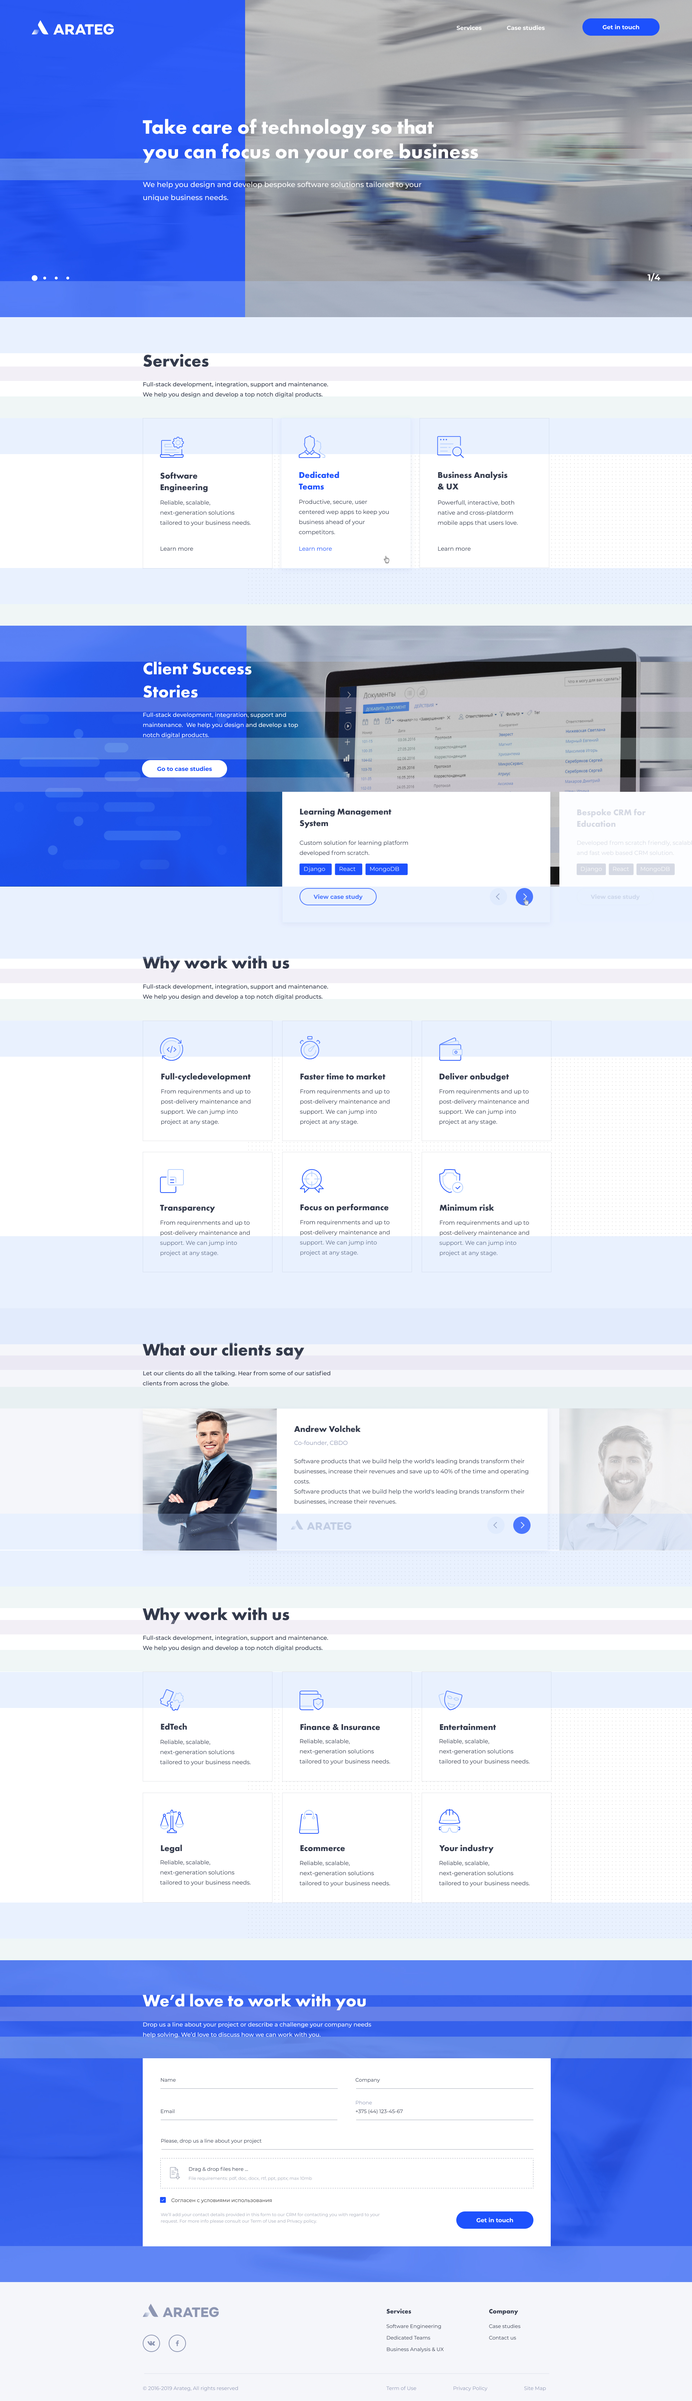
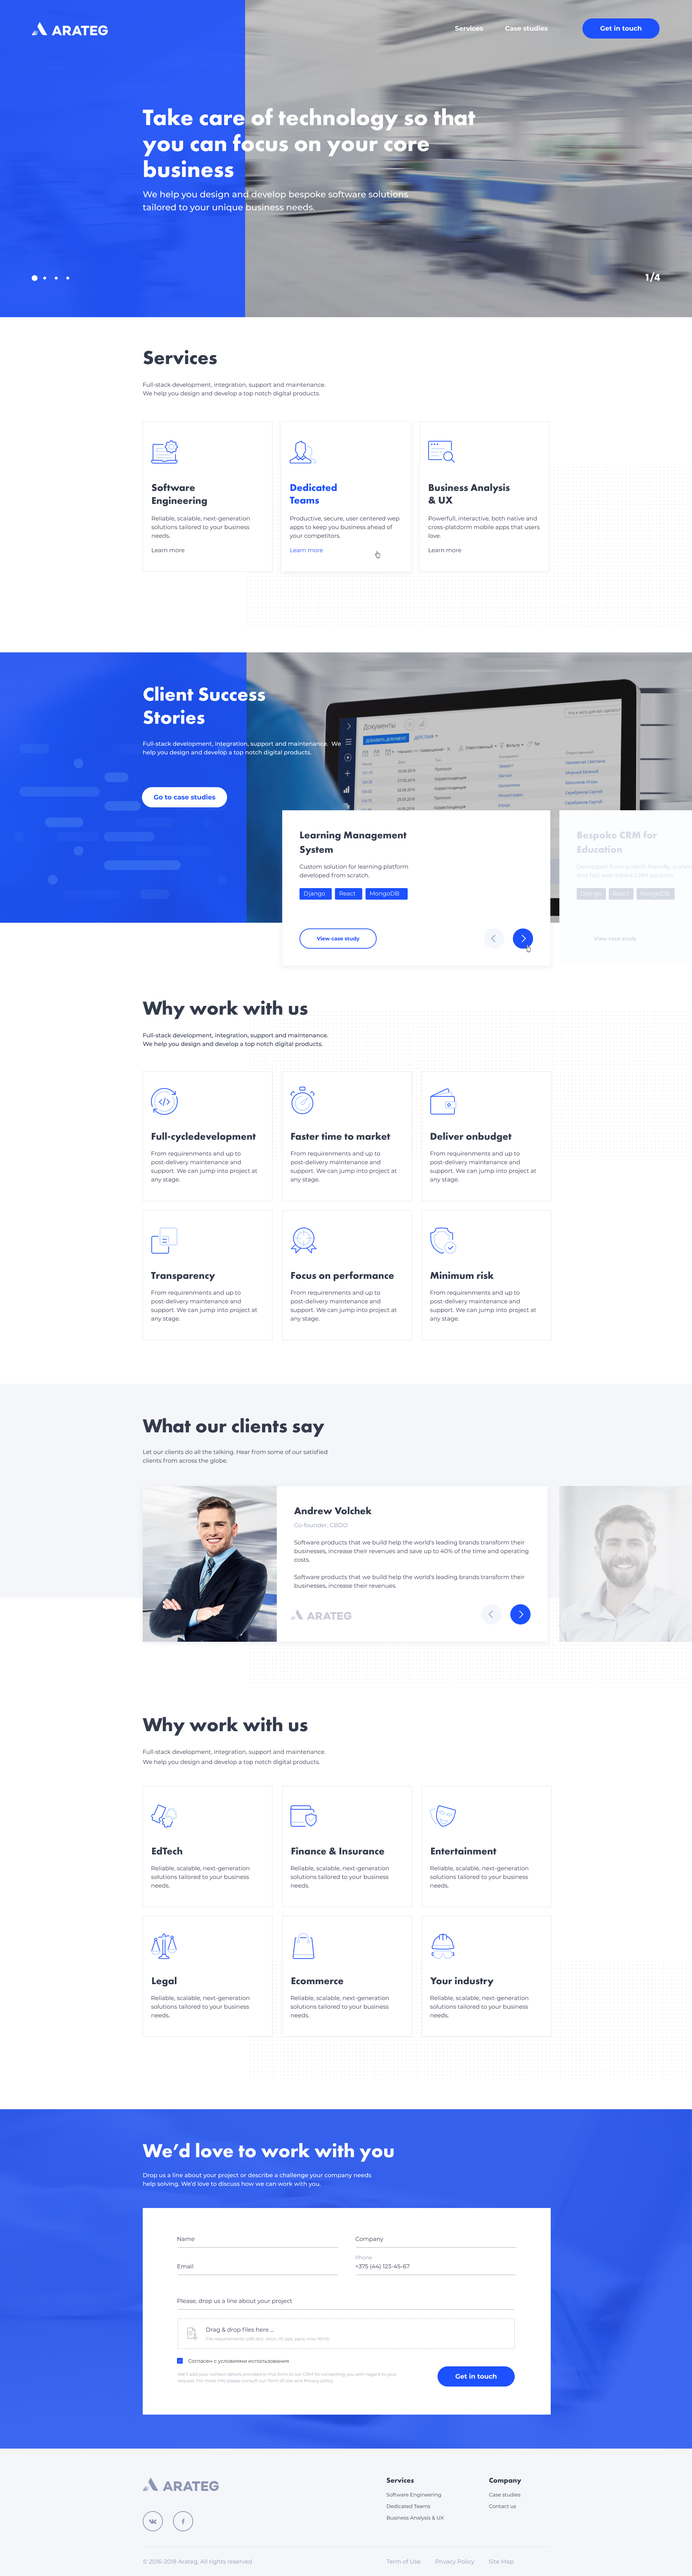
xxl fix

diff --git a/src/assets/styles/sections/_clientsay.scss b/src/assets/styles/sections/_clientsay.scss
@@ -1,5 +1,8 @@
 .clientsay {
   padding: 0;
+  @media #{$xl} {
+    padding-bottom: 50px;
+  }
   .section--pattern--bottom-right {
     height: 695px;
     bottom: 96px;
@@ -12,6 +15,9 @@
     padding: 45px 0 210px;
     @media #{$md} {
       padding: 90px 0 170px;
+    }
+    @media #{$xl} {
+      padding: 90px 0 305px;
     }
   }
   &__intro {
@@ -27,7 +33,7 @@
     }
     @media #{$xl} {
       width: calc(50vw + 485px);
-      margin: -155px 0 53px auto;
+      margin: -290px 0 53px auto;
       padding-right: calc(50vw - 480px);
       padding-left: 0;
     }
@@ -119,7 +125,7 @@
         }
 
         @media #{$xxl} {
-          right: calc(50vw - 520px);
+          right: calc(50vw - 511px);
         }
         .round-btn-bg {
           transform: rotate(180deg);
@@ -205,9 +211,9 @@
       }
 
       @media #{$xl} {
-        left: 420px;
+        left: 414px;
         width: calc(100% - 440px);
-        bottom: 40px;
+        bottom: 44px;
       }
     }
 

diff --git a/src/assets/styles/sections/_stories.scss b/src/assets/styles/sections/_stories.scss
@@ -147,6 +147,7 @@
           padding: 0 14px;
         }
         & > div {
+          transition: $transition;
           box-shadow: $boxShadowSlide;
           margin-bottom: 10px;
           height: calc(100%-5px);
@@ -157,7 +158,7 @@
         &.slick-active {
           & + .slick-slide {
             &> div{
-              box-shadow: 0 0 0 0 rgba(255,255,255, 0);
+              box-shadow: $boxShadowSlideDisabled;
             }
             .stories__slide {
               pointer-events: none;

diff --git a/src/assets/styles/utils/_variables.scss b/src/assets/styles/utils/_variables.scss
@@ -51,4 +51,5 @@ $boxShadowMaterial: 0 4px 10px 0px rgba(0, 0, 0, 0.225);
 
 $boxShadowCard: 0px 4px 16px rgba(141, 150, 178, 0.16);
 $boxShadowCardMaterial: 0px 4px 16px rgba(141, 150, 178, 0.16);
-$boxShadowSlide: 0px 2px 10px 5px rgba(141,150,178,0.16);
+$boxShadowSlide: 2px 2px 8px 3px rgba(141,150,178,0.16);
+$boxShadowSlideDisabled:2px 2px 8px 3px rgba(255,255,255,0.16);

diff --git a/src/assets/styles/sections/_mainform.scss b/src/assets/styles/sections/_mainform.scss
@@ -3,6 +3,13 @@
   @include bgImg('@~images/bg/form320.jpg', no-repeat, center, cover);
   @media #{$md} {
     padding-top: 90px;
+    background-image: url('@~images/bg/form768.jpg');
+  }
+  @media #{$xl} {
+    background-image: url('@~images/bg/form1200.jpg');
+  }
+  @media #{$xxl} {
+    background-image: url('@~images/bg/form1920.jpg');
   }
 
   &__heading {

diff --git a/src/assets/styles/layout/_general.scss b/src/assets/styles/layout/_general.scss
@@ -153,8 +153,7 @@ h3 > p {
   }
   @media #{$xl} {
     font-size: $h3Desk;
-    margin-bottom: 0.5em;
-    letter-spacing: 0.007em;
+    margin-bottom: 0.45em;
   }
 
   & + p {

diff --git a/src/assets/styles/sections/_footer.scss b/src/assets/styles/sections/_footer.scss
@@ -30,7 +30,7 @@
       }
     }
     &-btn {
-      margin: 15px;
+      margin: 15px 12px;
       &:first-child {
         @media #{$md} {
           margin-left: 0;

diff --git a/src/assets/styles/components/_pattern.scss b/src/assets/styles/components/_pattern.scss
@@ -83,6 +83,9 @@
     height: 50%;
     width: 70%;
   }
+  @media #{$xxl} {
+    width: 63%;
+  }
 }
 
 %pattern-ellips {

diff --git a/src/assets/styles/pages/_index.scss b/src/assets/styles/pages/_index.scss
@@ -4,6 +4,7 @@
   #why2 {
     @media #{$xl} {
       padding-bottom: 140px;
+      padding-top: 43px;
     }
   }
 }
